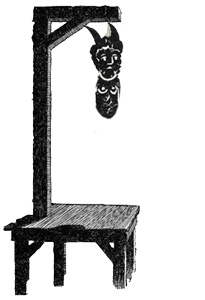
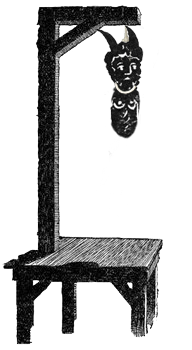
update readme and add to hangman project

diff --git a/code/js/data.js b/code/js/data.js
@@ -3,22 +3,73 @@ var $buttons = $('#buttons');
 var currentLetter;
 var chosenPlayer;
 var countLoses = 0;
-var chooseCharacter;
+var numCorrect = 0;
+var randomWord;
+// var chooseCharacter;
+
+var images = {
+	'AV-1': {
+		gallows: [
+			'/jpegs/Gallows/gallows_update.png', '/jpegs/Gallows/gallowsWitch_1.png',
+			'/jpegs/Gallows/gallowsWitch_2.png', '/jpegs/Gallows/gallowsWitch_3.png', 
+			'/jpegs/Gallows/gallowsWitch_4.png', '/jpegs/Gallows/gallowsWitch_5.png',
+			'/jpegs/Gallows/gallowsWitch_6.png'
+		],
+		avatar: [
+			'/jpegs/Witch/witchWhole_1.png', '/jpegs/Witch/witch_2.png',
+			'/jpegs/Witch/witch_3.png', '/jpegs/Witch/witch_4.png',
+			'/jpegs/Witch/witch_5.png', '/jpegs/Witch/witch_6.png',
+			'/jpegs/Skeleton/skel_blank.png'
+		]
+	},
+	'AV-2': {
+		gallows: [
+			'/jpegs/Gallows/gallows_update.png', '/jpegs/Gallows/gallowsDevil_1.png',
+			'/jpegs/Gallows/gallowsDevil_2.png', '/jpegs/Gallows/gallowsDevil_3.png', 
+			'/jpegs/Gallows/gallowsDevil_4.png', '/jpegs/Gallows/gallowsDevil_5.png',
+			'/jpegs/Gallows/gallowsDevil_6.png'
+		],
+		avatar: [
+			'/jpegs/Devil/devilWhole_1.png', '/jpegs/Devil/devil_2.png',
+			'/jpegs/Devil/devil_3.png', '/jpegs/Devil/devil_4.png',
+			'/jpegs/Devil/devil_5.png', '/jpegs/Devil/devil_6.png',
+			'/jpegs/Skeleton/skel_blank.png'
+		]
+	},
+	'AV-3': {
+		gallows: [
+			'/jpegs/Gallows/gallows_update.png', '/jpegs/Gallows/gallowsSkel_1.png',
+			'/jpegs/Gallows/gallowsSkel_2.png', '/jpegs/Gallows/gallowsSkel_3.png', 
+			'/jpegs/Gallows/gallowsSkel_4.png', '/jpegs/Gallows/gallowsSkel_5.png',
+			'/jpegs/Gallows/gallowsSkel_6.png'
+		],
+		avatar: [
+			'/jpegs/Skeleton/skelWhole_1.png', '/jpegs/Skeleton/skel_2.png',
+			'/jpegs/Skeleton/skel_3.5.png', '/jpegs/Skeleton/skel_4.5.png',
+			'/jpegs/Skeleton/skel_5.5.png', '/jpegs/Skeleton/skel_6.5.png',
+			'/jpegs/Skeleton/skel_blank.png'
+		]
+	}
+};
+
 
 
 $('.avatar').click(function(event){
-	chosenPlayer = $(event.target).removeClass('avatar');
+	chosenPlayer = $(event.target).attr('id');
 	$('#selectPage').hide();
 	$('#gamePage').removeClass('hidden');
 	displayButtons();
-	$('.rightColumn').append(chosenPlayer);
-	if(chosenPlayer.attr("id")==="AV-1") {
-		chooseCharacter === "witch";
-	} else if (chosenPlayer.attr("id")==="AV-2") {
-		chooseCharacter === "devil";
-	} else if ( chosenPlayer.attr("id")==="AV-3") {
-		chooseCharacter === "skeleton";
-	}
+	chooseWord();
+	blanksFromAnswer();
+
+	hangman();
+		// if(chosenPlayer.attr("id")==="AV-1") {
+		// 	chooseCharacter === "witch";
+		// } else if (chosenPlayer.attr("id")==="AV-2") {
+		// 	chooseCharacter === "devil";
+		// } else if (chosenPlayer.attr("id")==="AV-3") {
+		// 	chooseCharacter === "skeleton";
+		// }
 });
 
 var wordBank = ["halloween", "ghost", "spectre", "witch", "candycorn", 
@@ -27,9 +78,8 @@ var wordBank = ["halloween", "ghost", "spectre", "witch", "candycorn",
 	"evil", "elvira", "mummy", "blood", "guts", "pumpkin", "costume",
 	 "belalugosi", "moon", "blackcat", "bewitched", "spell", "horror",
 	 "scream", "gore", "boobies", "warlock", "slenderman", "macabre", 
-	 "monster"]
+	 "monster", "beast"]
 
-var randomWord;
 function chooseWord() {
 	randomWord = wordBank[Math.floor(Math.random() * wordBank.length)]; 
 	console.log(randomWord);
@@ -37,14 +87,9 @@ function chooseWord() {
 
 function blanksFromAnswer() {
 	for(var i = 0; i < randomWord.length; i++) {
-		$('#guessWord').append($('<span>').html('_ ').addClass('blanks'));
+		$('#guessWord').append($('<span>').html('_').addClass('blanks'));
 	}
 }
-
-$('#getWordButton').click(function(event){
-		chooseWord();
-		blanksFromAnswer();
-	});
 
 var alphabet = ['A', 'B', 'C', 'D', 'E', 'F', 'G', 'H', 'I', 'J', 'K', 
 'L', 'M', 'N', 'O', 'P', 'Q', 'R', 'S', 'T', 'U', 'V', 'W', 'X', 'Y', 'Z'];
@@ -63,11 +108,11 @@ var displayButtons = function() {
 }
 
 //pick a letter, test against letters in word
-	$buttons.click(function(event) {
-		currentLetter = $(event.target).html();
-		checkLetter();
-		console.log(currentLetter);
-	})
+$buttons.click(function(event) {
+	currentLetter = $(event.target).html();
+	checkLetter();
+	hangman();
+})
 
 function checkLetter() {
 	var letterIsFound = false;
@@ -75,51 +120,28 @@ function checkLetter() {
 	 	if(currentLetter.toLowerCase() === randomWord.charAt(i)) {
 	 		displayLetters(i);
 	 		letterIsFound = true;
-	 		//console.log("they are the same letter");
+	 		numCorrect++;
+	 		console.log('numCorrect', numCorrect);
 	 	}
 	} 
-	if (letterIsFound != true) {
+	if (!letterIsFound) {
 	 		countLoses++;
 	 		console.log(countLoses);
-	 		hangman();
 	 }	
 }
 
 function hangman() {
-	if (chooseCharacter === "witch") {
-		switch(countLoses) {
-			case 1: 
-				$('#gallows').attr("src", "/jpegs/Gallows/gallowsSkel_1.png");
-				$('#AV-3').attr("src", "/jpegs/Skeleton/skel_2.png");
+	$('#gallows').attr("src", images[chosenPlayer].gallows[countLoses]);
+	$('#character').attr("src", images[chosenPlayer].avatar[countLoses]);
+	if (countLoses === 6) {
+		// handle loser
+		console.log('loser')
+	} else if (numCorrect === randomWord.length) {
+		//handle winner
+		console.log('winner')
 
-			break;
-			case 2:
-				$('#gallows').attr("src", "/jpegs/Gallows/gallowsSkel_2.png");
-				$('#AV-3').attr("src", "/jpegs/Skeleton/skel_3.5.png");
-
-			break;
-			case 3:
-				$('#gallows').attr("src", "/jpegs/Gallows/gallowsSkel_3.png");
-				$('#AV-3').attr("src", "/jpegs/Skeleton/skel_4.5.png");
-
-			break;
-			case 4:
-				$('#gallows').attr("src", "/jpegs/Gallows/gallowsSkel_4.png");
-				$('#AV-3').attr("src", "/jpegs/Skeleton/skel_5.5.png");
-
-			break;
-			case 5:
-				$('#gallows').attr("src", "/jpegs/Gallows/gallowsSkel_5.png");
-				$('#AV-3').attr("src", "/jpegs/Skeleton/skel_6.5.png");
-			break;
-
-			case 6:
-				$('#gallows').attr("src", "/jpegs/Gallows/gallowsSkel_6.png");
-				$('#AV-3').attr("src", "/jpegs/Skeleton/skel_blank.png");
-		}
-	
 	}
-} else
+} 
 
 //access nth-child of 'guessWord', change it currentLetter
 function displayLetters(i) {

diff --git a/code/index.html b/code/index.html
@@ -3,7 +3,7 @@
 <head>
 	<meta charset="UTF-8">
 	<title>My Hangman</title>
-	  <link rel="stylesheet" href="/css/style.css">
+	<link rel="stylesheet" href="/css/style.css">
 	<script src="https://code.jquery.com/jquery-2.1.4.min.js"></script> 
 </head>
 <body>
@@ -11,67 +11,32 @@
 		<h1>Hangman</h1>
 	</div>
 	<br>
-		<div id="selectPage">
-			<div id="avTable">
-					<img class="avatar" id="AV-1" src="jpegs/Witch/witchWhole_1.png">
-					<img class="avatar" id="AV-2" src="jpegs/Devil/devilWhole_1.png">
-					<img class="avatar" id="AV-3" src="jpegs/Skeleton/skelWhole_1.png">
-			</div>
-		<div class="choose">Choose character to start game</div>
+	<div id="selectPage">
+		<div id="avTable">
+			<img class="avatar" id="AV-1" src="jpegs/Witch/witchWhole_1.png">
+			<img class="avatar" id="AV-2" src="jpegs/Devil/devilWhole_1.png">
+			<img class="avatar" id="AV-3" src="jpegs/Skeleton/skelWhole_1.png">
 		</div>
+		<div class="choose">Choose character to start game</div>
+	</div>
 	<br>
 
-		<div class="hidden" id="gamePage">
-			<div class="leftColumn">
-				<img id="gallows" src="jpegs/Gallows/gallows_update.png">
-			</div>
-				<br>
-					<div class="rightColumn" id="hanged">
-						
-					</div>
-						<br>
-						<footer>
-							<section id="guessWord"></section>
-								<br>
-								<div id="buttons"></div>
-								<br>
-								<div id="getWordButton">
-										get word
-								</div>
-						</footer>
-			</div>
-		<script src="js/data.js"></script>	
+	<div class="hidden" id="gamePage">
+		<div class="leftColumn">
+			<img id="gallows" src="">
+		</div>
+		<br>
+		<div class="rightColumn" id="hanged">
+			<img id="character" src="">
+		</div>
+		<br>
+		<footer>
+			<section id="guessWord"></section>
+			<br>
+			<div id="buttons"></div>
+			<br>
+		</footer>
+	</div>
+	<script src="js/data.js"></script>	
 </body>
 </html>
-									<!-- <table class="alphabet">
-										<tr>
-											<td id="A">A</td>
-											<td id="B">B</td>
-											<td id="C">C</td>
-											<td id="D">D</td>
-											<td id="E">E</td>
-											<td id="F">F</td>
-											<td id="G">G</td>
-											<td id="H">H</td>
-											<td id="I">I</td>
-											<td id="J">J</td>
-											<td id="K">K</td>
-											<td id="L">L</td>
-											<td id="M">M</td>
-										</tr>
-										<tr>
-											<td id="N">N</td>
-											<td id="O">O</td>
-											<td id="P">P</td>
-											<td id="Q">Q</td>
-											<td id="R">R</td>
-											<td id="S">S</td>
-											<td id="T">T</td>
-											<td id="U">U</td>
-											<td id="V">V</td>
-											<td id="W">W</td>
-											<td id="X">X</td>
-											<td id="Y">Y</td>
-											<td id="Z">Z</td>
-										</tr>
-									</table> -->

diff --git a/code/css/style.css b/code/css/style.css
@@ -68,6 +68,7 @@ table {
 	text-align: center;
 	display: inline-block;
 	font-family: Helvetica;
+	letter-spacing: 5px;
 }
 
 .letters {

diff --git a/readme.md b/readme.md
@@ -27,14 +27,14 @@ I decided to take my games title very literally and make it visually grim. It *i
 
 ##MVP
 ####Current
-- [ ] As a player I would like to press a button in order to start the game.
-- [ ] As a player I would like to see the blank letterspaces so that I can see how long the word is.
-- [ ] As a player I would like to have a way to choose letters easily
-- [ ] As a player I would like to see the correct letters fill in the blank spaces.
+- [X] As a player I would like to press a button in order to start the game.
+- [X] As a player I would like to see the blank letterspaces so that I can see how long the word is.
+- [X] As a player I would like to have a way to choose letters easily
+- [X] As a player I would like to see the correct letters fill in the blank spaces.
 - [ ] As a player I would like to see all the letters I've used.
-- [ ] As a player I would like to see my hangman character to show how many body parts have moved to the noose
-- [ ]As a player I'd like to see something different happen to the hangman character depending on whether I win or lose.
-- [ ]As a player I'd like for there to be a button to start a new game when I finish each game.
+- [X] As a player I would like to see my hangman character to show how many body parts have moved to the noose
+- [ ] As a player I'd like to see something different happen to the hangman character depending on whether I win or lose.
+- [ ] As a player I'd like for there to be a button to start a new game when I finish each game.
 
 
 
